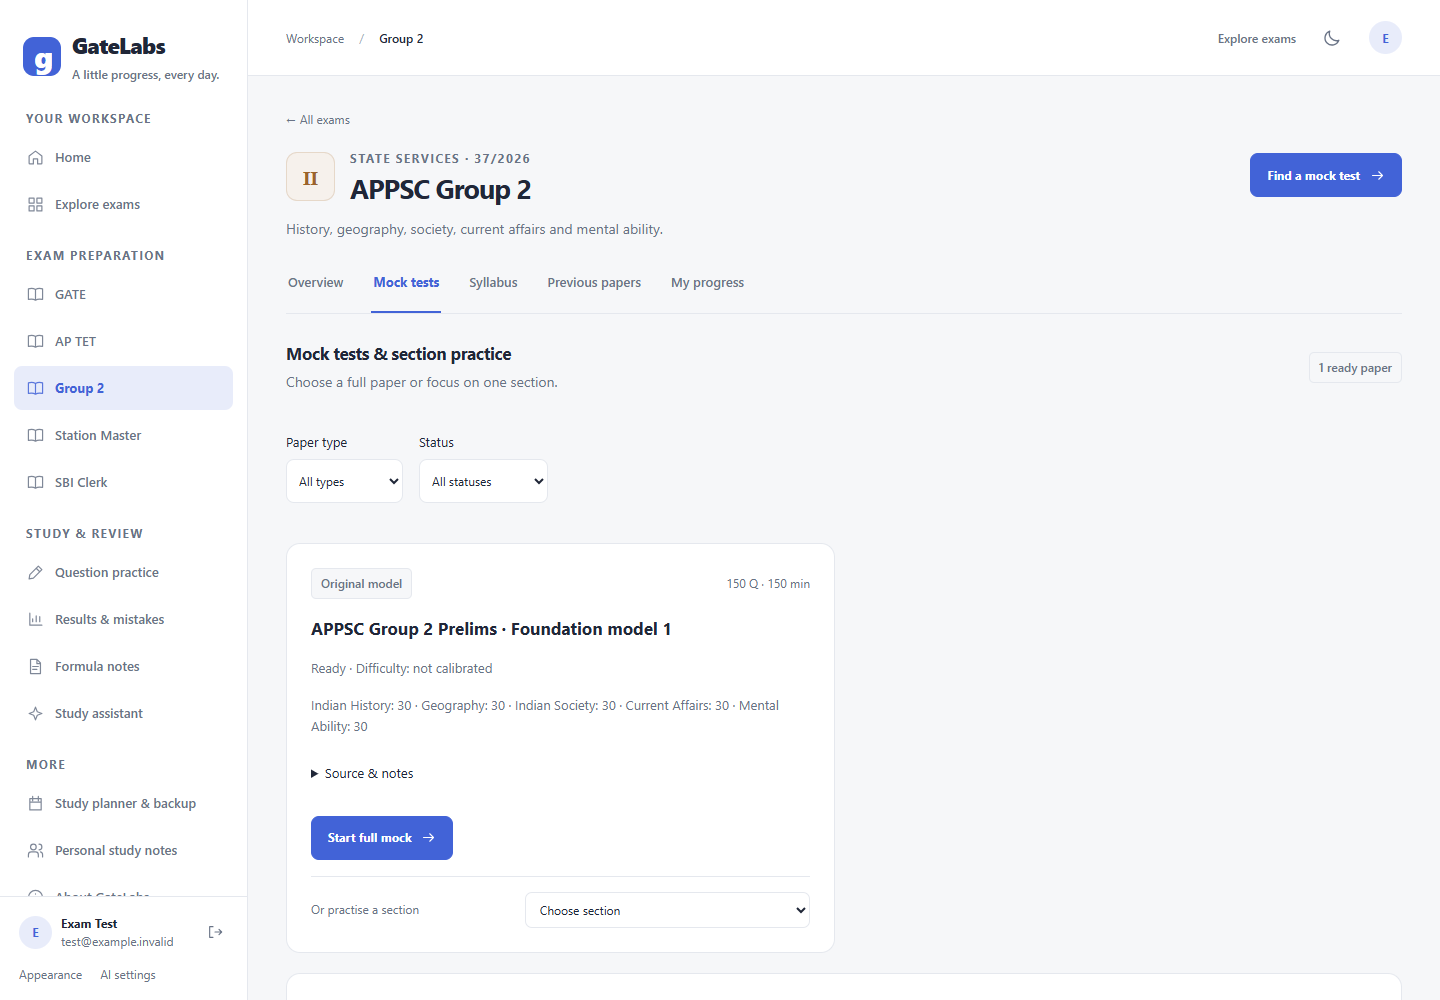
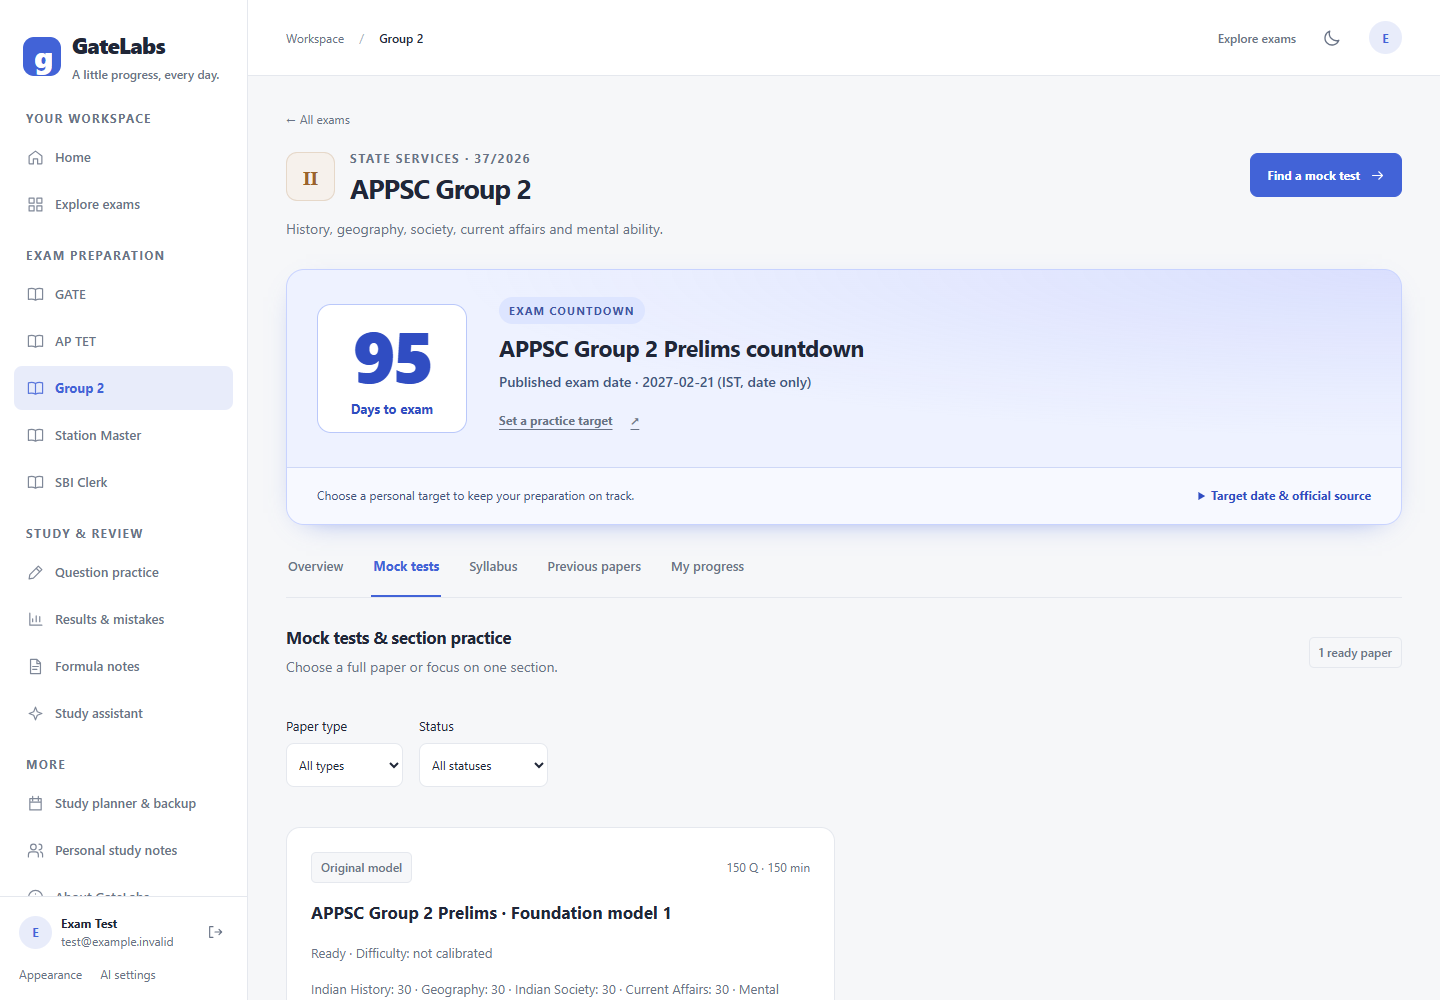
ui: spotlight each exam countdown above preparation tabs

diff --git a/src/pages/ExamPrep.js b/src/pages/ExamPrep.js
@@ -64,9 +64,10 @@ export function createExamPrep(examId){return {
     const valid=this.available.filter(p=>!this.paperView(p).errors.length);
     return `<section id="prep-${examId}" class="workspace-page exam-workspace">
       <header class="exam-page-heading"><div class="exam-heading-main"><a href="#/exams" class="back-link">← All exams</a><div class="exam-heading-title"><span class="exam-symbol" style="--exam-color:${meta.color}">${meta.symbol}</span><div><span class="eyebrow">${meta.category} · ${h(e.version)}</span><h1>${h(meta.name)}</h1></div></div><p>${h(meta.description)}</p></div><button class="ui-button primary" data-open-tab="mocks">Find a mock test ${icon('arrow')}</button></header>
+      ${countdownCard(examId)}
       <div class="prep-tab-strip"><nav role="tablist" class="prep-tabs" aria-label="${h(meta.name)} sections">${tabs.map(([key,label])=>`<button role="tab" id="tab-${examId}-${key}" aria-controls="panel-${examId}-${key}" aria-selected="${this.activeTab===key}" tabindex="${this.activeTab===key?0:-1}" data-prep-tab="${key}" aria-current="${this.activeTab===key?'page':'false'}" class="${this.activeTab===key?'active':''}">${label}</button>`).join('')}</nav><button class="tab-continuation" data-tabs-next aria-label="Next exam section">→</button></div>
       <div class="prep-panel" ${this.activeTab==='overview'?'':'hidden'} role="tabpanel" id="panel-${examId}-overview" aria-labelledby="tab-${examId}-overview" data-panel="overview">
-        <div class="exam-overview-grid"><div><section class="surface"><div class="section-heading"><h2>Know your exam</h2><span class="subtle-tag">${examId==='tet'?'Paper 1A':examId==='group2'?'Screening test':'Exam pattern'}</span></div><div class="pattern-metrics"><div><strong>${e.count}</strong><span>Questions</span></div><div><strong>${e.marks}</strong><span>Marks</span></div><div><strong>${e.minutes}<small> min</small></strong><span>Duration</span></div><div><strong>${e.penalty===0?'None':e.penalty===.25?'−¼':'−⅓'}</strong><span>Wrong MCQ penalty${examId==='gate'?' × marks':''}</span></div></div><p class="muted">${h(e.note)}</p><details class="pattern-detail"><summary>Section breakdown & official rules</summary>${e.sections.length?`<table><thead><tr><th>Section</th><th>Questions</th></tr></thead><tbody>${e.sections.map(([name,n])=>`<tr><td>${h(name)}</td><td>${n}</td></tr>`).join('')}</tbody></table>`:''}<a href="${e.source}" target="_blank" rel="noopener">Read the official pattern ↗</a><small>Research checked ${e.checked}</small></details></section><section class="surface next-step"><span class="eyebrow">Your next step</span><h2>${this.attempts.length?'Build on your last attempt':'Start with a practice paper'}</h2><p>${this.attempts.length?'Review your answers, then practise the topics that need more attention.':'Read the instructions and try a mock test. You can also choose one section for a shorter session.'}</p><button class="ui-button primary" data-open-tab="${this.attempts.length?'progress':'mocks'}">${this.attempts.length?'Review my progress':'Browse mock tests'} ${icon('arrow')}</button></section></div><aside>${countdownCard(examId)}${examId==='rrb'?`<details class="surface selection-detail"><summary>What comes after the CBT?</summary><p>CBAT → document verification → A2 medical. Minimum CBT eligibility: UR/EWS 40%, OBC/SC 30%, ST 25%. Selection cutoffs vary.</p><p>CBAT requires T-score 42 in every battery, with no negative marking. Final merit weights: CBT 70%, CBAT 30%.</p></details>`:''}</aside></div>
+        <div class="exam-overview-grid ${examId==='rrb'?'':'countdown-overview-wide'}"><div><section class="surface"><div class="section-heading"><h2>Know your exam</h2><span class="subtle-tag">${examId==='tet'?'Paper 1A':examId==='group2'?'Screening test':'Exam pattern'}</span></div><div class="pattern-metrics"><div><strong>${e.count}</strong><span>Questions</span></div><div><strong>${e.marks}</strong><span>Marks</span></div><div><strong>${e.minutes}<small> min</small></strong><span>Duration</span></div><div><strong>${e.penalty===0?'None':e.penalty===.25?'−¼':'−⅓'}</strong><span>Wrong MCQ penalty${examId==='gate'?' × marks':''}</span></div></div><p class="muted">${h(e.note)}</p><details class="pattern-detail"><summary>Section breakdown & official rules</summary>${e.sections.length?`<table><thead><tr><th>Section</th><th>Questions</th></tr></thead><tbody>${e.sections.map(([name,n])=>`<tr><td>${h(name)}</td><td>${n}</td></tr>`).join('')}</tbody></table>`:''}<a href="${e.source}" target="_blank" rel="noopener">Read the official pattern ↗</a><small>Research checked ${e.checked}</small></details></section><section class="surface next-step"><span class="eyebrow">Your next step</span><h2>${this.attempts.length?'Build on your last attempt':'Start with a practice paper'}</h2><p>${this.attempts.length?'Review your answers, then practise the topics that need more attention.':'Read the instructions and try a mock test. You can also choose one section for a shorter session.'}</p><button class="ui-button primary" data-open-tab="${this.attempts.length?'progress':'mocks'}">${this.attempts.length?'Review my progress':'Browse mock tests'} ${icon('arrow')}</button></section></div><aside ${examId==='rrb'?'':'hidden'}>${examId==='rrb'?`<details class="surface selection-detail"><summary>What comes after the CBT?</summary><p>CBAT → document verification → A2 medical. Minimum CBT eligibility: UR/EWS 40%, OBC/SC 30%, ST 25%. Selection cutoffs vary.</p><p>CBAT requires T-score 42 in every battery, with no negative marking. Final merit weights: CBT 70%, CBAT 30%.</p></details>`:''}</aside></div>
       </div>
       <div class="prep-panel" ${this.activeTab==='mocks'?'':'hidden'} role="tabpanel" id="panel-${examId}-mocks" aria-labelledby="tab-${examId}-mocks" data-panel="mocks"><div class="section-heading"><div><h2>Mock tests & section practice</h2><p>Choose a full paper or focus on one section.</p></div><span class="subtle-tag">${valid.length} ready ${valid.length===1?'paper':'papers'}</span></div>${this.loadError?`<div class="notice" role="alert">${h(this.loadError)} <button id="retry-papers">Try again</button></div>`:''}${examId==='gate'?`<div class="surface"><h2>GATE question practice</h2><p>Use the year-wise question bank for timed practice, or choose topics to work on individually.</p><div class="button-row"><a class="ui-button primary" href="#/pyq-mocks">Open paper library ${icon('arrow')}</a><a class="ui-button" href="#/practice">Practise by topic</a></div></div>`:''}${this.paperFilters()}<div class="paper-grid">${this.available.filter(p=>!['2025 memory-based','Practice reconstruction'].includes(p.category)).map(p=>this.paperCard(p)).join('')}</div>${this.importPanel()}</div>
       <div class="prep-panel" ${this.activeTab==='syllabus'?'':'hidden'} role="tabpanel" id="panel-${examId}-syllabus" aria-labelledby="tab-${examId}-syllabus" data-panel="syllabus"><div class="section-heading"><div><h2>Your syllabus checklist</h2><p>Check off topics as you revise them. Saved on this device for your account.</p></div><span id="syllabus-percent" class="subtle-tag">${percent}% complete</span></div>${sections.length?`<div class="syllabus-progress"><div style="width:${Math.min(100,percent)}%"></div></div>${sections.map((s,i)=>`<details class="surface syllabus-section"><summary><span>${h(s.name)}</span><small>${s.count} questions · <span data-section-progress="${i}">${s.topics.filter((_,j)=>progress.includes(`${i}-${j}`)).length}/${s.topics.length} revised</span></small></summary><div class="syllabus-topics">${s.topics.map((topic,j)=>`<label><input type="checkbox" data-topic="${i}-${j}" ${progress.includes(`${i}-${j}`)?'checked':''}><span>${h(topic)}</span></label>`).join('')}</div></details>`).join('')}`:`<div class="surface"><h2>GATE CS syllabus & planner</h2><p>Review subjects, track topic completion and organise your study notes.</p><a class="ui-button primary" href="#/study-planner">Open study planner ${icon('arrow')}</a></div>`}<a class="text-link" href="${e.source}" target="_blank" rel="noopener">Check the full official syllabus ↗</a>${['tet','sbi'].includes(examId)?'<p class="muted">This checklist groups the main study areas. Refer to the official notice for the full syllabus and applicable language requirements.</p>':''}</div>

diff --git a/src/components/ExamCountdown.js b/src/components/ExamCountdown.js
@@ -1,15 +1,34 @@
 import { auth } from '../config/firebase';
 import { EXAMS } from '../config/exams.js';
 import { countdown, escapeHtml as h } from '../utils/examEngine.js';
-export function countdownCard(id) {
-  const e=EXAMS[id], key=`exam-target:${auth.currentUser?.uid}:${id}`, target=localStorage.getItem(key)||'';
-  const status=!e.date&&['gate','sbi'].includes(id)?'Next exam date not verified':countdown(e.date);
-  return `<section class="exam-hub exam-countdown" data-countdown="${id}"><div class="exam-card"><h2>${h(e.name)} countdown</h2><p>${status}</p><small>Research checked ${e.checked}. ${e.date?'Session time is not verified.':'An application deadline is not an exam date.'}</small><a href="${e.source}" target="_blank" rel="noopener">Notification / pattern source</a><details class="target-settings"><summary>Set a personal practice target</summary><div class="exam-toolbar"><label>Personal practice target <input type="date" data-target value="${h(target)}"></label><button data-clear-target>Clear personal target</button></div></details><p data-personal>${target?'Personal target — '+countdown(target):'No personal target set'}</p></div></section>`;
+
+function featuredCountdown(exam,target){
+  const date=exam.date||target;
+  const personal=!exam.date&&!!target;
+  const today=new Intl.DateTimeFormat('en-CA',{timeZone:'Asia/Kolkata',year:'numeric',month:'2-digit',day:'2-digit'}).format(new Date());
+  const days=date?Math.round((Date.parse(date+'T00:00:00Z')-Date.parse(today+'T00:00:00Z'))/86400000):NaN;
+  const valid=Number.isFinite(days);
+  const number=!valid?'—':days>0?String(days).padStart(2,'0'):days===0?'Today':'Passed';
+  const label=!valid?'Date to be announced':days>0?(personal?'Days to your target':'Days to exam'):days===0?(personal?'Your target is today':'Exam date is today'):'Set your next practice target';
+  const status=!valid?'Awaiting official exam schedule':personal?'Personal practice target · '+date:'Published exam date · '+date+' (IST, date only)';
+  return `<div class="countdown-time" aria-label="${h(valid&&days>0?days+' days remaining':label)}"><strong class="countdown-number ${valid&&days<=0?'countdown-word':''}">${h(number)}</strong><span>${h(label)}</span></div><div class="countdown-copy"><span class="countdown-badge">${personal?'Personal target':valid?'Exam countdown':'Schedule pending'}</span><h2>${h(exam.name)} countdown</h2><p class="countdown-date">${h(status)}</p>${!valid?'<p class="countdown-hint">Set a practice date and start counting down to your goal.</p>':''}<button type="button" class="countdown-action" data-open-countdown-target>${target?'Edit practice target':'Set a practice target'} <span aria-hidden="true">↗</span></button></div>`;
 }
+
+export function countdownCard(id) {
+  const e=EXAMS[id],key=`exam-target:${auth.currentUser?.uid}:${id}`,target=localStorage.getItem(key)||'';
+  return `<section class="exam-countdown countdown-spotlight" data-countdown="${id}" aria-label="${h(e.name)} countdown"><div class="countdown-feature" data-countdown-display>${featuredCountdown(e,target)}</div><div class="countdown-footer"><p data-personal>${target?'Personal target — '+countdown(target):'Choose a personal target to keep your preparation on track.'}</p><details class="target-settings countdown-settings"><summary>Target date & official source</summary><div class="exam-toolbar"><label>Personal practice target<input type="date" data-target value="${h(target)}"></label><button type="button" data-clear-target>Clear personal target</button></div><p>Research checked ${h(e.checked)}. ${e.date?'Session time is not verified.':'An application deadline is not an exam date.'}</p><a href="${h(e.source)}" target="_blank" rel="noopener">Notification / pattern source ↗</a></details></div></section>`;
+}
+
 export function bindCountdowns() {
   document.querySelectorAll('[data-countdown]').forEach(root=>{
-    const key=`exam-target:${auth.currentUser?.uid}:${root.dataset.countdown}`, input=root.querySelector('[data-target]');
-    const save=()=>{if(input.value)localStorage.setItem(key,input.value);else localStorage.removeItem(key);root.querySelector('[data-personal]').textContent=input.value?'Personal target — '+countdown(input.value):'No personal target set';};
-    input.onchange=save;root.querySelector('[data-clear-target]').onclick=()=>{input.value='';save();};
+    const id=root.dataset.countdown,key=`exam-target:${auth.currentUser?.uid}:${id}`,input=root.querySelector('[data-target]');
+    const save=()=>{
+      if(input.value)localStorage.setItem(key,input.value);else localStorage.removeItem(key);
+      root.querySelector('[data-personal]').textContent=input.value?'Personal target — '+countdown(input.value):'Choose a personal target to keep your preparation on track.';
+      root.querySelector('[data-countdown-display]').innerHTML=featuredCountdown(EXAMS[id],input.value);
+    };
+    input.onchange=save;
+    root.querySelector('[data-clear-target]').onclick=()=>{input.value='';save();};
+    root.addEventListener('click',event=>{if(!event.target.closest('[data-open-countdown-target]'))return;root.querySelector('.target-settings').open=true;input.focus();});
   });
 }

diff --git a/src/styles/workspace.css b/src/styles/workspace.css
@@ -50,3 +50,19 @@ body,.app-shell,.landing-workspace{font-family:Inter,-apple-system,BlinkMacSyste
 .section-heading{flex-wrap:wrap}.section-heading>div{min-width:0}.syllabus-section summary>span{min-width:0;overflow-wrap:anywhere}.syllabus-section summary small{font-size:12px;line-height:1.5}.syllabus-progress>div{background:var(--ws-primary)}
 @media(max-width:600px){.syllabus-section summary{display:grid;grid-template-columns:14px minmax(0,1fr);gap:8px 12px;font-size:14px}.syllabus-section summary small{grid-column:2}.syllabus-topics label{font-size:14px;line-height:1.6}}
 .workspace-page,.prep-panel{grid-template-columns:minmax(0,1fr)}
+/* The countdown stays above the exam tabs on every preparation screen. */
+.exam-workspace .countdown-spotlight{display:block;margin:0;border:1px solid #c8d3ff;border-radius:18px;overflow:hidden;background:#eef2ff;box-shadow:0 8px 30px -20px #4263d7;color:#202d58;min-width:0}
+.countdown-feature{display:flex;align-items:center;gap:32px;padding:26px 30px;position:relative;background:radial-gradient(ellipse at 100% 0,rgba(129,140,248,.18),transparent 60%)}
+.countdown-time{display:flex;flex-direction:column;align-items:center;justify-content:center;flex-shrink:0;min-width:150px;padding:12px 24px;border:1px solid #bac8fa;background:#fff;border-radius:14px;color:#304dc2;font-variant-numeric:tabular-nums}
+.countdown-number{font-size:72px;line-height:1;font-weight:800;letter-spacing:-4px}.countdown-number.countdown-word{font-size:42px;letter-spacing:-2px}.countdown-time>span{font-size:13px;font-weight:650;margin-top:10px}
+.countdown-copy{min-width:0}.countdown-badge{display:inline-block;text-transform:uppercase;letter-spacing:1.2px;font-size:11px;font-weight:750;color:#3e54a4;padding:5px 10px;border-radius:20px;background:#dde5ff;margin-bottom:9px}
+.exam-workspace .countdown-copy h2{font-size:23px;letter-spacing:-.5px;font-weight:750;line-height:1.3;margin:0}.exam-workspace .countdown-copy .countdown-date{font-size:14px;margin:7px 0;color:#425681;font-weight:600}.exam-workspace .countdown-copy .countdown-hint{font-size:13px;margin:5px 0;color:#52628b}
+.countdown-action{display:inline-flex;align-items:center;gap:18px;min-height:40px;font-size:13px;font-weight:700;color:#304dc2;text-decoration:underline;text-underline-offset:4px}
+.countdown-footer{display:flex;align-items:baseline;justify-content:space-between;gap:12px 24px;flex-wrap:wrap;padding:12px 30px;border-top:1px solid #ced8f7;background:rgba(255,255,255,.5)}.exam-workspace .countdown-footer>[data-personal]{font-size:12px;margin:0;color:#43537c}
+.exam-workspace .countdown-settings{margin:0;padding:0;border:0;max-width:100%;font-size:12px}.countdown-settings summary{cursor:pointer;min-height:32px;padding:5px 0;font-weight:650;color:#304dc2}.countdown-settings[open]{flex-basis:100%}.countdown-settings .exam-toolbar{display:flex;align-items:end;gap:12px;flex-wrap:wrap;margin:12px 0}.countdown-settings label{display:grid;gap:7px}.countdown-settings input{padding:10px;border:1px solid #bac8fa;border-radius:8px;background:var(--ws-panel);color:var(--ws-text);min-height:44px}.countdown-settings button{padding:10px 12px;border:1px solid #bac8fa;border-radius:8px;min-height:44px}.countdown-settings a{text-decoration:underline}
+.dark .countdown-spotlight{background:#202d50;border-color:#526ba6;color:#f0f3ff}.dark .countdown-time{background:#15213b;border-color:#5a73bb;color:#c3d1ff}.dark .countdown-badge{background:#34446e;color:#d3ddff}.dark .countdown-copy .countdown-date,.dark .countdown-copy .countdown-hint,.dark .countdown-footer>[data-personal]{color:#c1cce6}.dark .countdown-action,.dark .countdown-settings summary{color:#c3d1ff}.dark .countdown-footer{background:rgba(0,0,0,.1);border-color:#425986}
+@media(max-width:600px){.countdown-feature{gap:16px;padding:20px;align-items:flex-start}.countdown-time{min-width:100px;padding:14px 10px}.countdown-number{font-size:54px;letter-spacing:-3px}.countdown-number.countdown-word{font-size:30px;letter-spacing:-1px}.countdown-time>span{font-size:12px;text-align:center}.exam-workspace .countdown-copy h2{font-size:18px}.countdown-badge{font-size:10px;letter-spacing:.6px;padding:4px 7px}.countdown-footer{padding:12px 20px}.countdown-action{font-size:12px;gap:8px;line-height:1.5}.exam-workspace .countdown-copy .countdown-date{font-size:12px;overflow-wrap:anywhere}}
+@media(max-width:360px){.countdown-feature{flex-direction:column;gap:15px}.countdown-time{width:100%;flex-direction:row;gap:16px;justify-content:flex-start;padding:12px 16px}.countdown-time>span{margin-top:0}.countdown-number{font-size:48px}}
+.countdown-overview-wide{grid-template-columns:minmax(0,1fr)}
+.exam-workspace .countdown-action{background:transparent;border:0;padding:0;color:#304dc2}
+.dark .exam-workspace .countdown-action{color:#c3d1ff}
